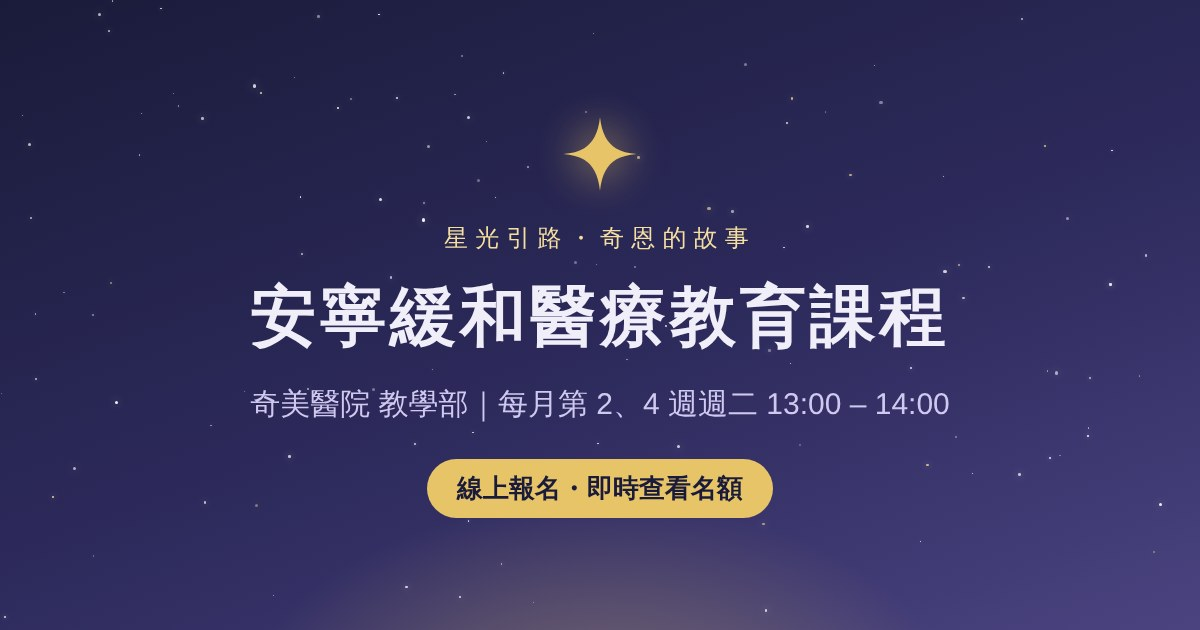
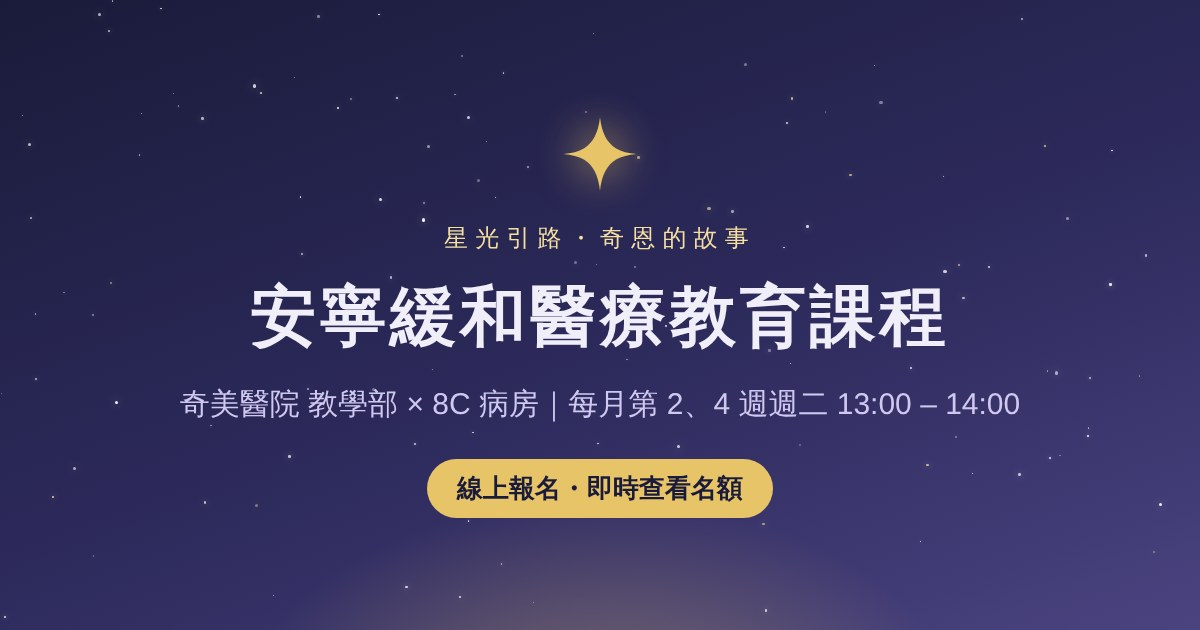
Credit 8C ward as co-organizer
Claude-Session: https://claude.ai/code/session_01PgLZRxQJx7ySPoFTvtvQG6

Changed region(s): [[0.1542, 0.6032, 0.8633, 0.6635]]

diff --git a/index.html b/index.html
@@ -8,7 +8,7 @@
 <meta property="og:type" content="website">
 <meta property="og:url" content="https://yeeeeting.github.io/CMHPCEC/">
 <meta property="og:title" content="安寧緩和醫療教育課程｜線上報名">
-<meta property="og:description" content="奇美醫院教學部・每月第 2、4 週週二 13:00–14:00，即時查看名額、線上報名。">
+<meta property="og:description" content="奇美醫院 教學部 × 8C 病房・每月第 2、4 週週二 13:00–14:00，即時查看名額、線上報名。">
 <meta property="og:image" content="https://yeeeeting.github.io/CMHPCEC/og.jpg">
 <meta property="og:image:width" content="1200">
 <meta property="og:image:height" content="630">
@@ -1924,7 +1924,7 @@
 
 <!-- FOOTER -->
 <footer class="site-footer">
-  <strong>奇美醫療財團法人奇美醫院 教學部</strong><br>
+  <strong>奇美醫療財團法人奇美醫院　教學部 × 8C 病房</strong><br>
   <span class="nowrap">報名名額以本頁即時顯示為準</span> · <span class="nowrap">如有疑問請洽教學部承辦人（分機 57429）</span>
 </footer>
 
@@ -2725,7 +2725,7 @@ function printSummary() {
       <thead><tr><th>日期</th><th>場地</th><th>已報名／名額</th><th>狀態</th><th>報名單位</th></tr></thead>
       <tbody>${rows}</tbody>
     </table>
-    <div class="print-foot">奇美醫療財團法人奇美醫院 教學部・承辦人 楊宜婷（分機 57429）</div>`;
+    <div class="print-foot">奇美醫療財團法人奇美醫院 教學部 × 8C 病房・承辦人 楊宜婷（分機 57429）</div>`;
   window.print();
 }
 
